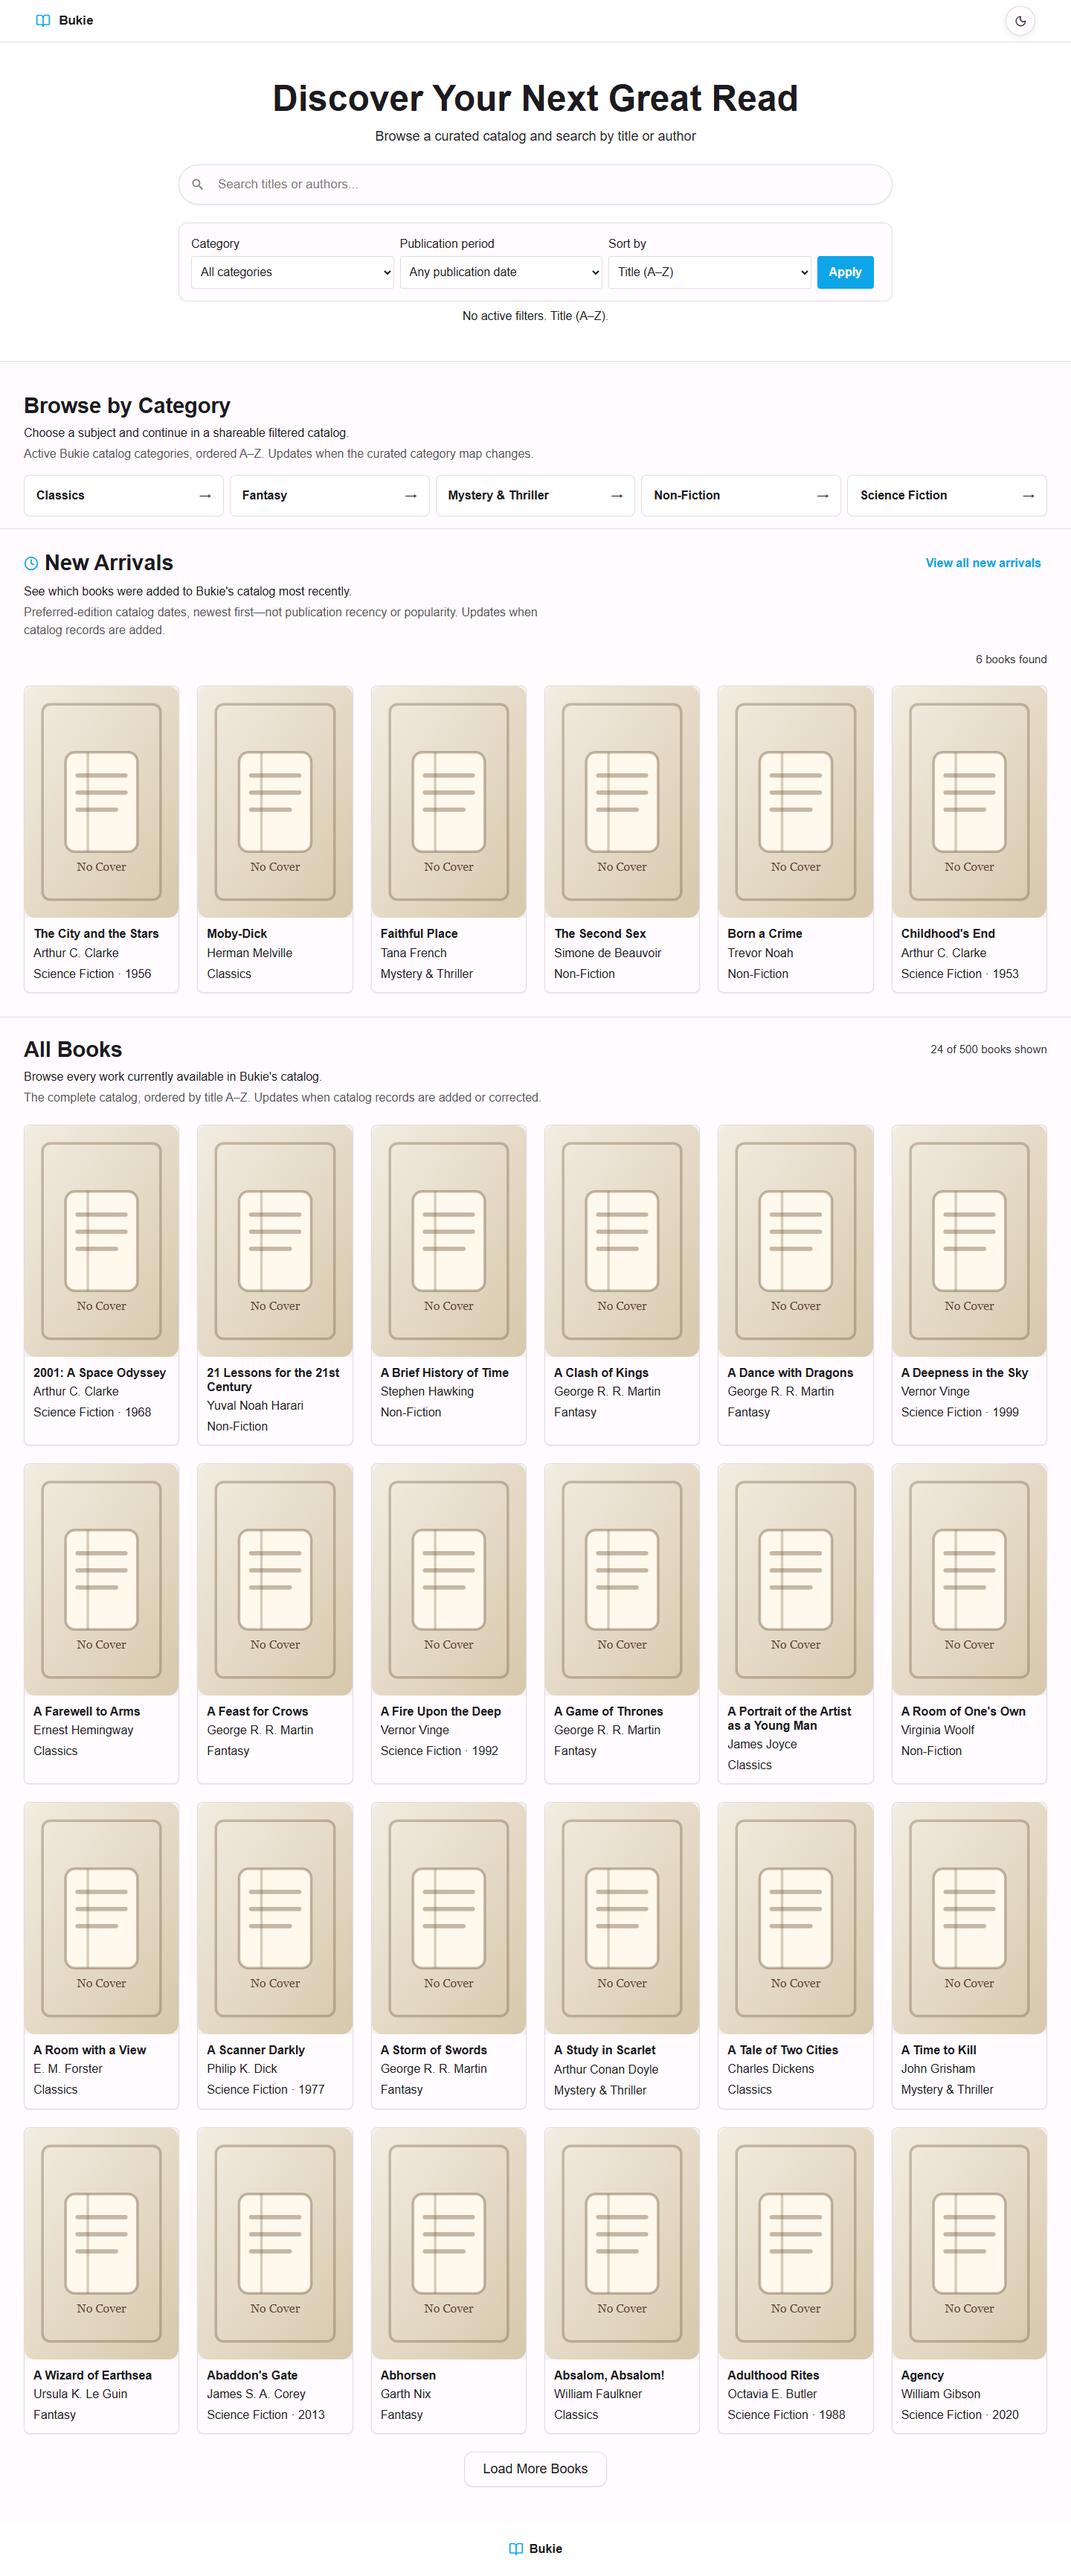
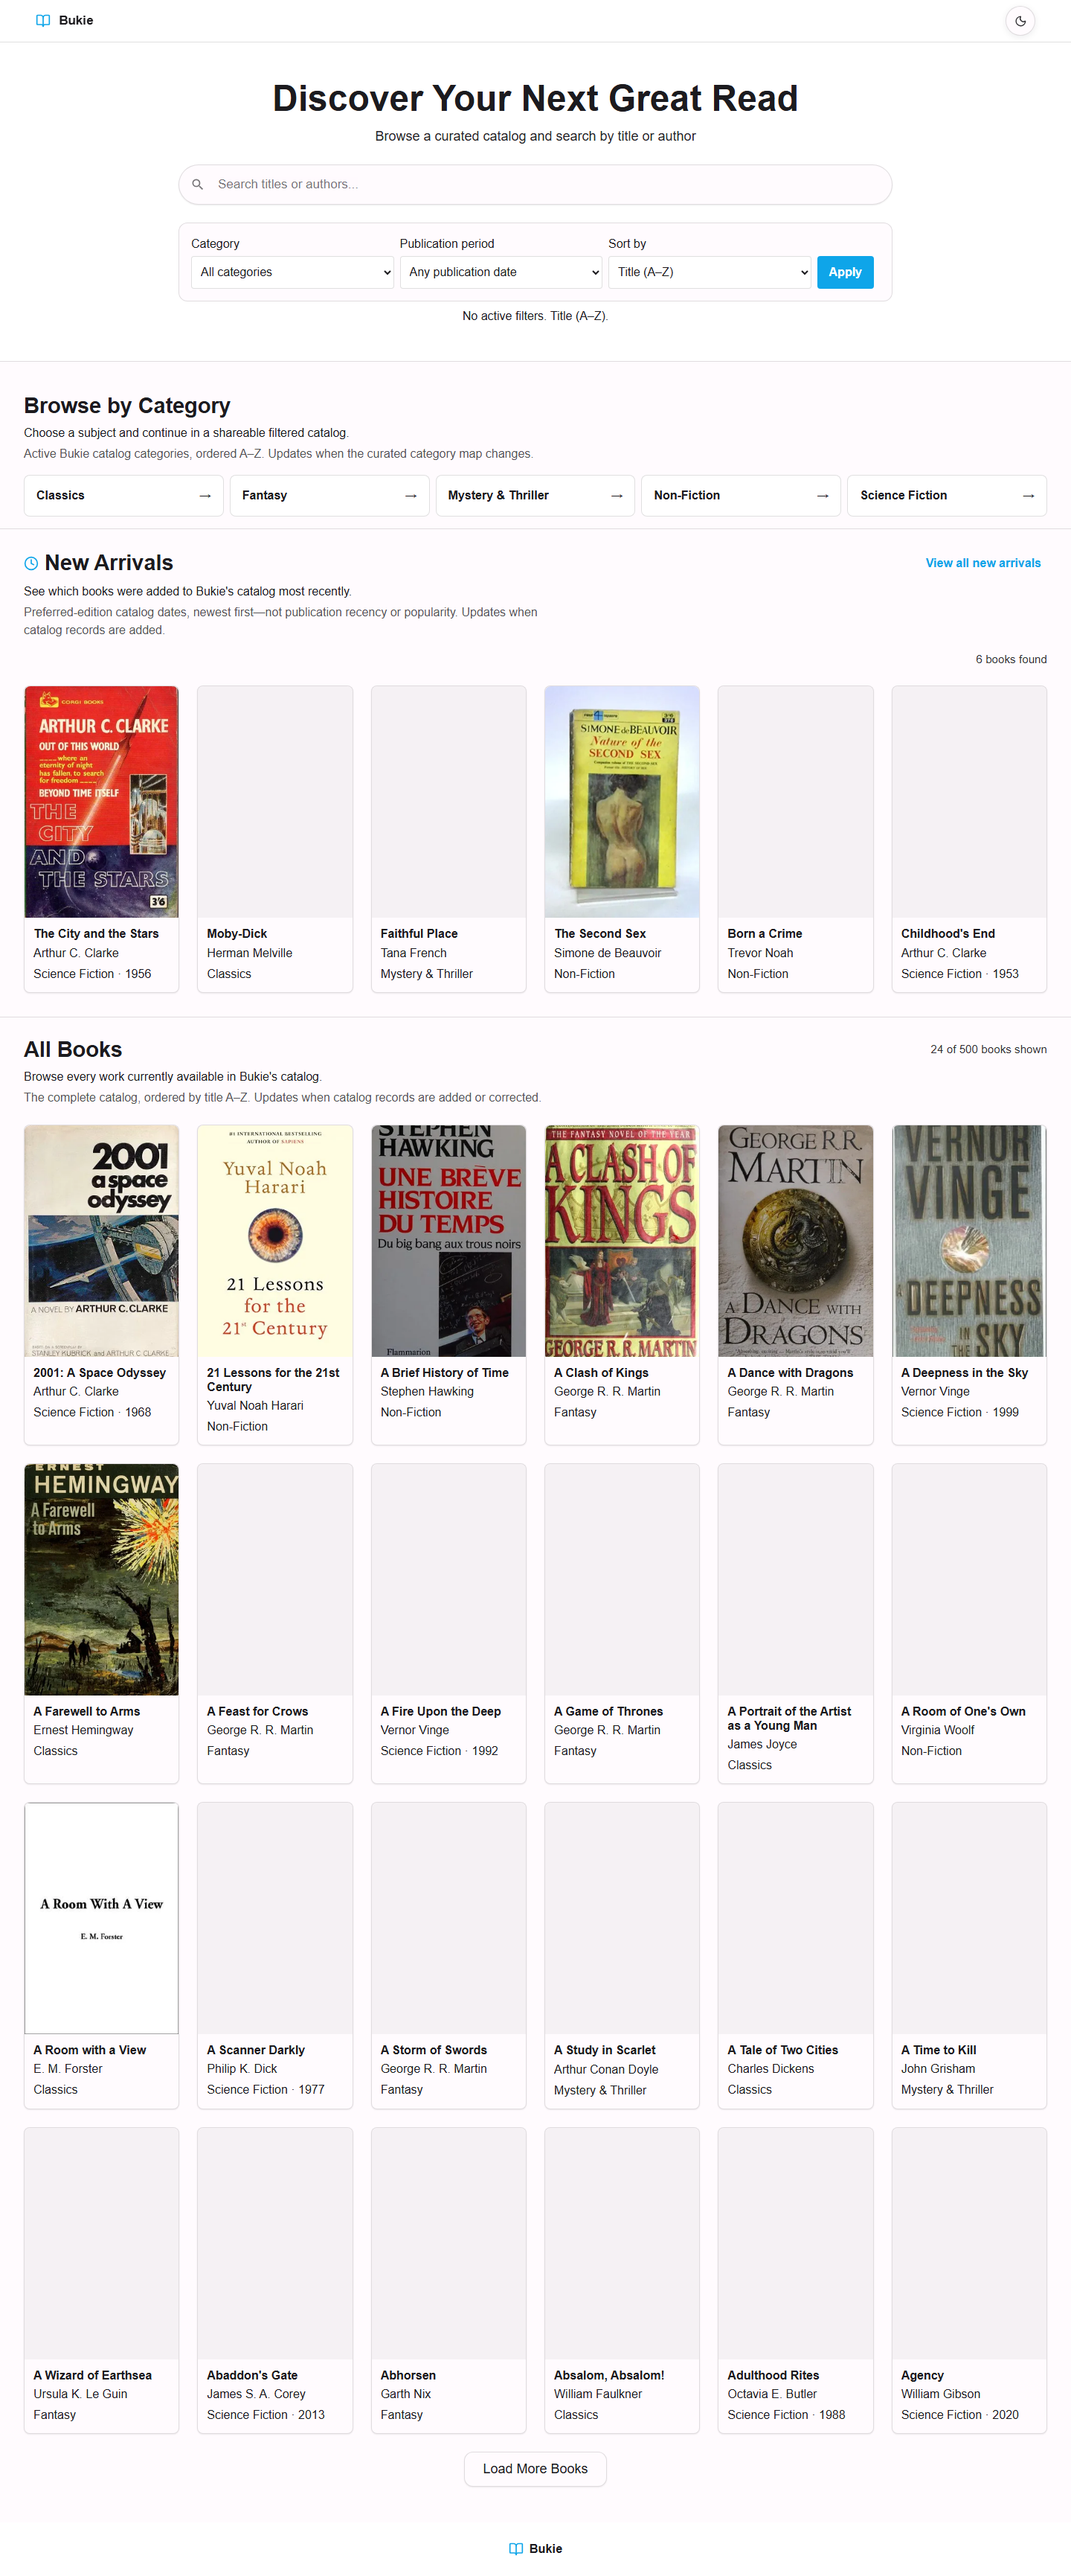
docs(discovery): refresh preview evidence

diff --git a/docs/evidence/109/README.md b/docs/evidence/109/README.md
@@ -5,8 +5,9 @@ The baseline is the ready Vercel production deployment
 That is three seconds after main commit
 `3105773937547a8674fb6bc127d9fd874d7a1958`, the post-PR #127 release commit.
 
-The after captures use the same catalog and light theme from the issue #109
-branch build. Full-page screenshots deliberately include the complete initial
+The after captures use the ready PR #128 Vercel preview deployment
+`dpl_5irC2XdKqiQbeWdSKw7MTFj1yTaZ` and the same catalog and light theme.
+Full-page screenshots deliberately include the complete initial
 server-rendered catalog page so section order, responsive density, and
 continuation paths can be compared.
 
